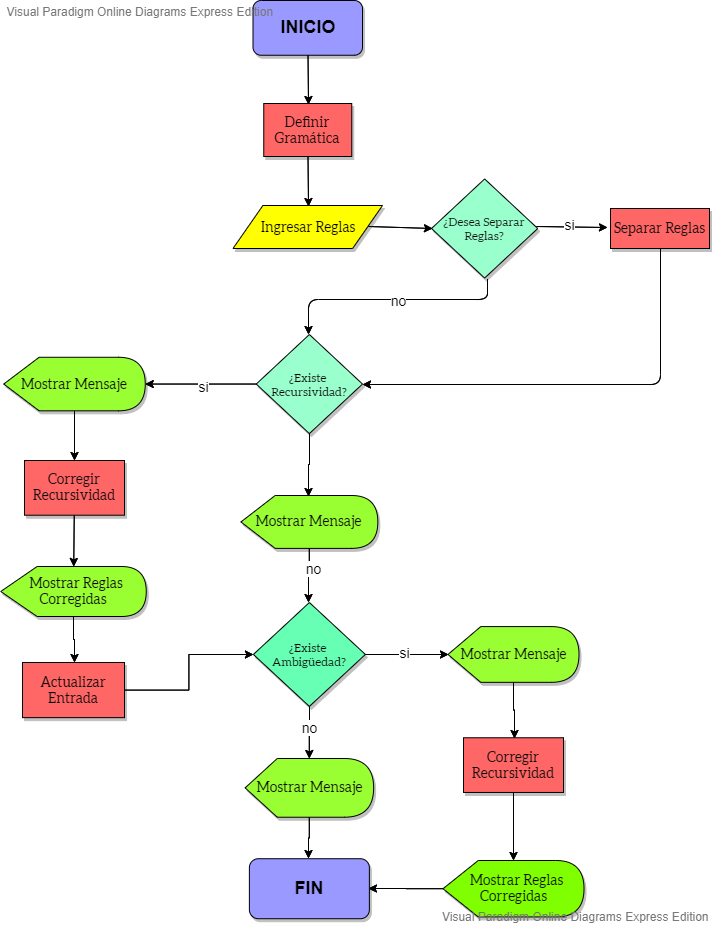
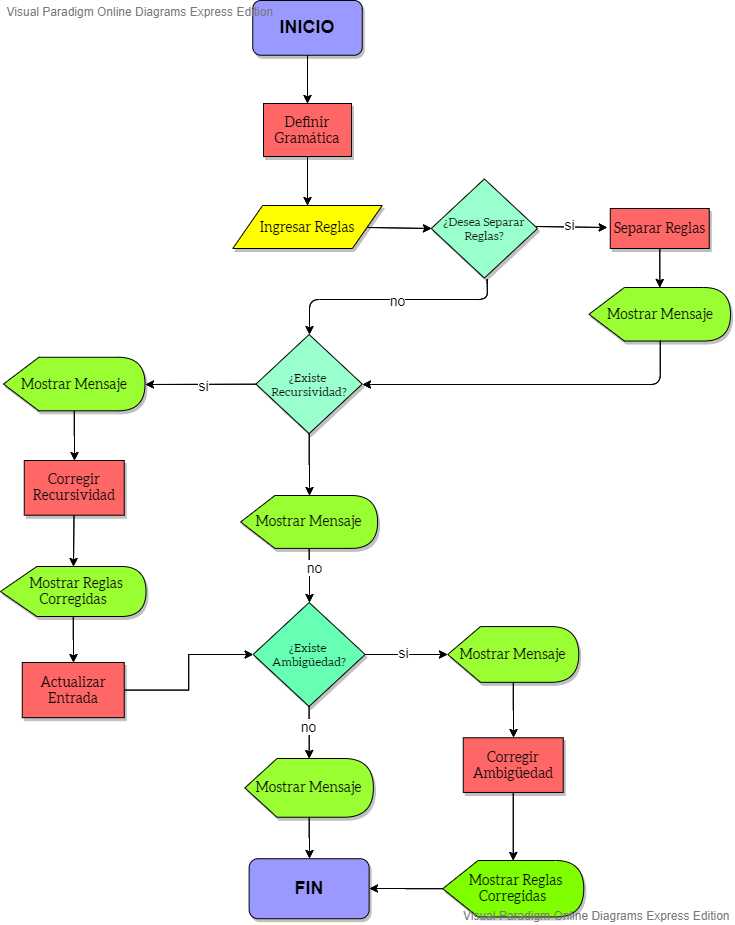
fix bugs on program base

diff --git a/modulos.py b/modulos.py
@@ -24,7 +24,7 @@ def LeerDatos(entrada):
   reglas = entrada.split("\n")
   reglas = [item for item in reglas if item]
 
-  print("modulo LeerDatos en modulos.py\n",reglas)
+  # print("modulo LeerDatos en modulos.py\n",reglas)
   return reglas
 
 def SepararReglas(reglas):
@@ -115,13 +115,14 @@ def CorregirRec(dic):
       corregido[e] = []
       corregido[e + "'"] = []
       for token in dic[e]:
-        if (len(token) == 1):
+        if (e != token[0]):
           corregido[e].append([token[0] + " " + e + "'"])
         else:
           corregido[e + "'"].append([(token[1]) + " " + e + "'"])
       corregido[e + "'"].append(["\u03B5"])
     else:
       corregido[e] = dic[e]  
+  print(corregido)
   return corregido
 
 def CorregirUnaAmb(dic):
@@ -135,10 +136,16 @@ def CorregirUnaAmb(dic):
       corregido[e + "'"] = []
       corregido[e].append([err[e] + " " + e + "'"])
       for token in dic[e]:
+        if (token[0] == err[e] and len(token) == 1):
+          continue
+
         if (token[0] != err[e]):
           corregido[e].append(token)
         else:
-          corregido[e + "'"].append([token[1]])      
+          if (len(token) == 1):
+            corregido[e + "'"].append(token)
+          else:
+            corregido[e + "'"].append([token[1]])      
     else:
       corregido[e] = dic[e]  
   return corregido
@@ -150,6 +157,7 @@ def CorregirAmb(dic):
     err = AnalizarForAmb(dic3)
     dic3 = CorregirUnaAmb(dic3)
     dic3 = Reorganizar(dic3)
+  # print(dic3)
   return dic3
 
 def MostrarCorregido(dic):
